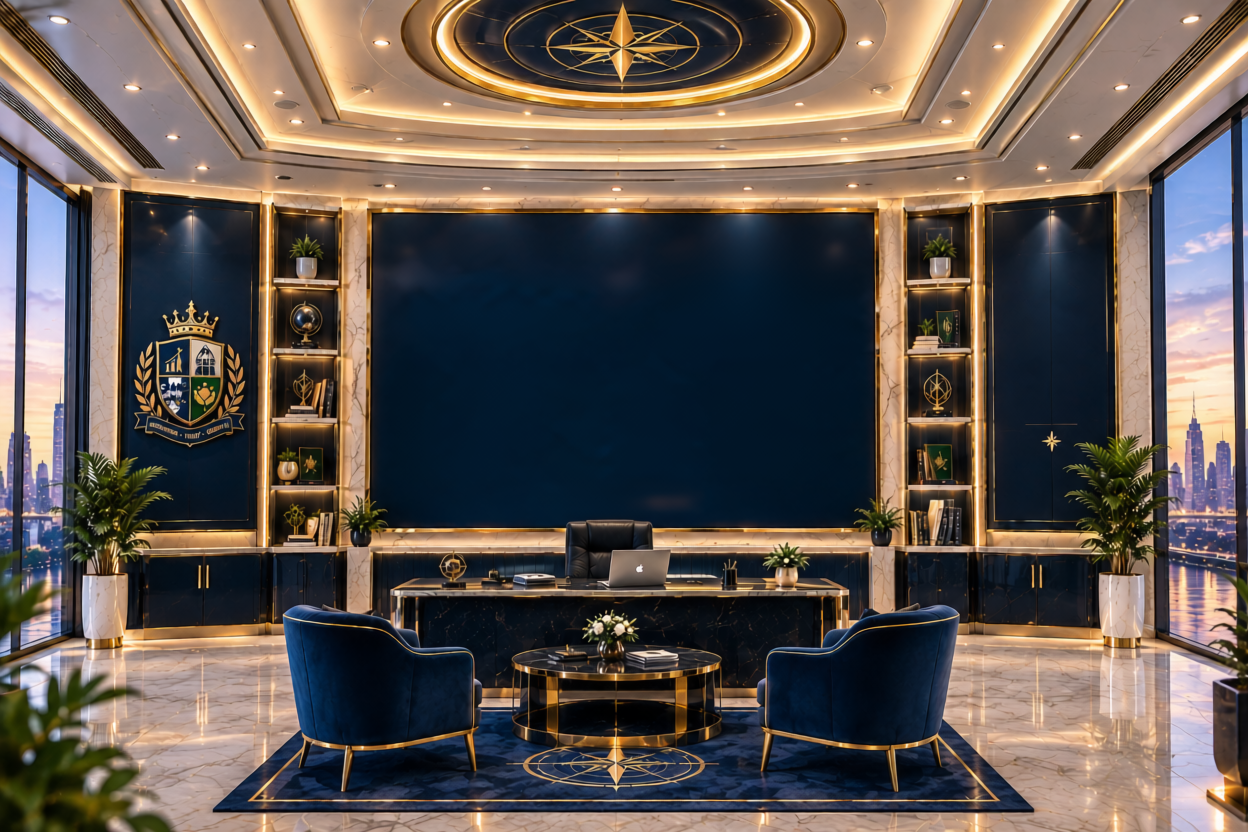
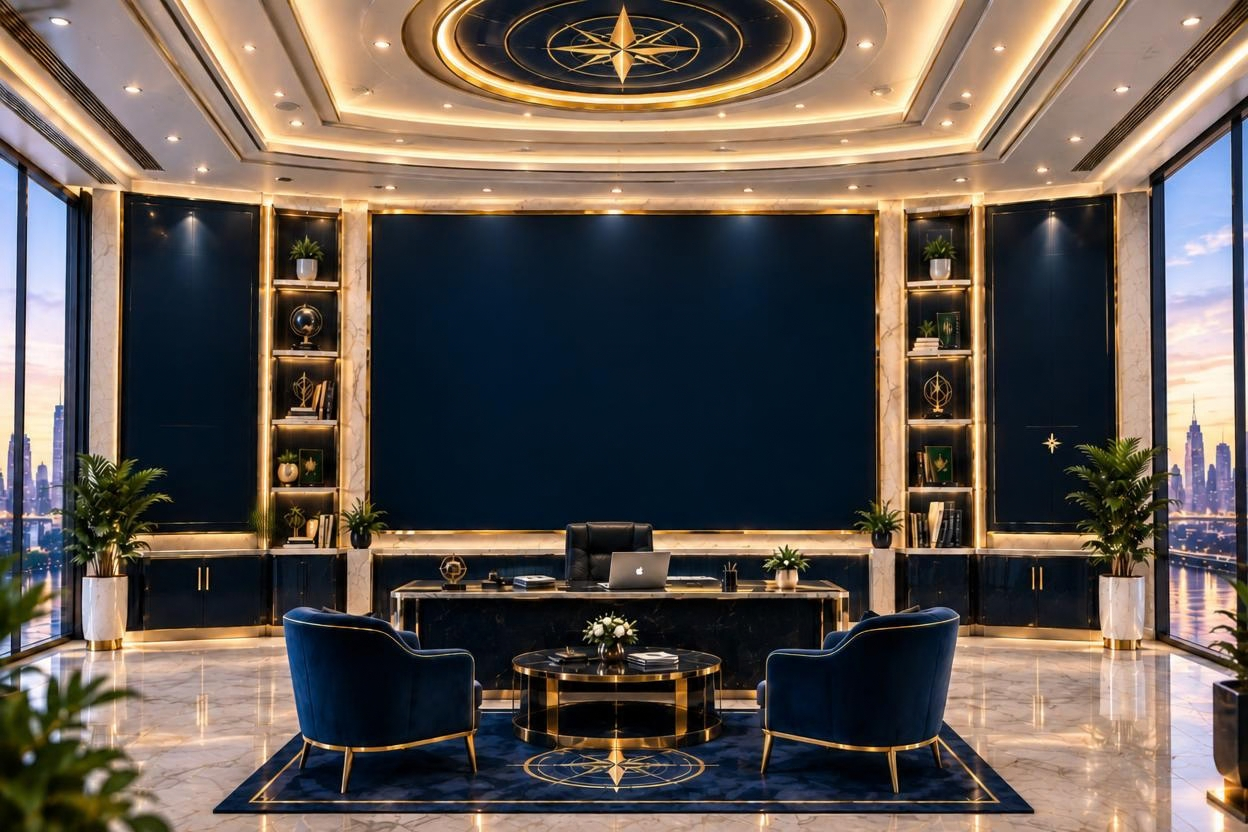
fixed

diff --git a/components/ClosedHouseHero.tsx b/components/ClosedHouseHero.tsx
@@ -16,17 +16,15 @@ export const ClosedHouseHero: React.FC = () => {
       {/* Main Hero Typography Container */}
       <div className="relative z-10 max-w-7xl mx-auto px-6 pt-24 pb-12 flex-1 flex flex-col justify-start items-start w-full pointer-events-none">
 
-        <div className="max-w-xl text-left space-y-6 pointer-events-auto bg-transparent p-0">
+        <div className="max-w-xl text-left space-y-6 pointer-events-auto bg-transparent p-0 ml-4 sm:ml-12">
           <div className="space-y-3">
-            <span className="text-xs sm:text-sm md:text-base uppercase tracking-[0.35em] font-extrabold text-[#c5a869] block">
+            <span className="text-xs sm:text-sm md:text-base uppercase tracking-[0.35em] font-black text-[#894426] block drop-shadow-[0_2px_8px_rgba(30,5,12,0.95)]">
               WELCOME TO
             </span>
-            <h1 className="text-2xl sm:text-4xl font-serif font-extrabold text-white tracking-wide leading-none drop-shadow-[0_4px_16px_rgba(0,0,0,0.95)]">
-              <span className="bg-gradient-to-r from-white via-[#f5ede0] to-[#c5a869] bg-clip-text text-transparent">
-                BEGUM HOUSE
-              </span>
+            <h1 className="text-2xl sm:text-4xl font-serif font-black text-[#4a0e1c] tracking-wider leading-none drop-shadow-[0_2px_12px_rgba(251,245,235,0.9)] [text-shadow:_0_2px_14px_rgba(30,5,12,0.9)]">
+              BEGUM HOUSE
             </h1>
-            <p className="text-sm sm:text-base font-semibold text-slate-200 tracking-wider pt-1 drop-shadow-[0_2px_8px_rgba(0,0,0,0.9)]">
+            <p className="text-sm sm:text-base font-black text-[#5a1224] tracking-wider pt-1 drop-shadow-[0_1px_8px_rgba(251,245,235,0.85)] [text-shadow:_0_2px_10px_rgba(30,5,12,0.8)]">
               Global Services. Intelligent Operations.
             </p>
           </div>

diff --git a/components/House3DScene.tsx b/components/House3DScene.tsx
@@ -835,7 +835,11 @@ function IndividualRoomPlane({ room }: { room: ServiceRoom }) {
         <meshBasicMaterial map={texture} />
       </mesh>
 
-      {/* 3D Wall Crest Logo mounted on the right side blue wall space matching left side logo size */}
+      {/* Symmetrical 3D Wall Crest Logos mounted on both left and right side wall spaces */}
+      <WallCrest3DMesh
+        position={[-baseW * 0.35, baseH * 0.08, 0.005]}
+        scale={[baseW * 0.095, baseW * 0.095, 1]}
+      />
       <WallCrest3DMesh
         position={[baseW * 0.35, baseH * 0.08, 0.005]}
         scale={[baseW * 0.095, baseW * 0.095, 1]}

diff --git a/components/CrestHeader.tsx b/components/CrestHeader.tsx
@@ -55,14 +55,6 @@ export const CrestHeader: React.FC = () => {
           >
             The House
           </button>
-          
-          <button
-            onClick={() => setIsGlobalModalOpen(true)}
-            className="flex items-center gap-1.5 px-3 py-1.5 rounded-full border border-transparent hover:text-[#c5a869] hover:bg-[#1a1a2e] hover:border-[#c5a869]/40 shadow-sm transition-all duration-300"
-          >
-            <Globe className="w-3.5 h-3.5 text-[#c5a869]" />
-            Global Opportunities
-          </button>
         </nav>
 
         {/* Action Controls */}
